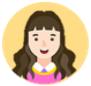
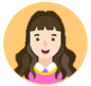
[FE] Design: TTS 선택 모달 수정
- tts 선택 모달에 이름 넣기
- tts 선택 모달 (처음 읽는 경우, 이어서 읽는 경우 boolean 으로 구분)
- 자녀 헤더 설정 모달 폰트 굵기 조정

diff --git a/frontend/ijoa-project/src/components/fairytales/TTSChoiceModal.tsx b/frontend/ijoa-project/src/components/fairytales/TTSChoiceModal.tsx
@@ -2,18 +2,20 @@ import React from "react";
 import Pororo from "/assets/fairytales/images/pororo.png";
 import Hachuping from "/assets/fairytales/images/hachuping.png";
 import Father from "/assets/fairytales/images/father.png";
-import Mother from "/assets/fairytales/images/mother.png";
 
 interface TTSChoiceModalProps {
   isOpen: boolean;
   onClose: () => void; // 모달을 닫는 함수 추가
+  hasRead: boolean; // 읽은 적 있는지 여부
 }
 
-const TTSChoiceModal: React.FC<TTSChoiceModalProps> = ({ isOpen, onClose }) => {
+const TTSChoiceModal: React.FC<TTSChoiceModalProps> = ({ isOpen, onClose, hasRead }) => {
   if (!isOpen) return null;
 
   // TTS 이미지 배열 예시 데이터
-  const images = [Pororo, Hachuping, Father, Mother];
+  const ttsImages = [Pororo, Father, Hachuping, Father];
+  // TTS 이름 배열 예시 데이터
+  const ttsNames = ["뽀로로", "아빠", "하츄핑", "엄마"];
 
   return (
     <div className="fixed inset-0 bg-black bg-opacity-60 flex justify-center items-center z-50">
@@ -23,40 +25,62 @@ const TTSChoiceModal: React.FC<TTSChoiceModalProps> = ({ isOpen, onClose }) => {
             <span className="blue-highlight">누구 목소리</span>로 책을 읽어줄까요?
           </div>
 
-          <div className="mt-8 mb-8">
+          <div className="mt-8 mb-8 text-lg">
             <div className="mb-8 flex flex-wrap justify-center gap-8">
-              {images.length > 0 && (
-                <img src={images[0]} alt="뽀로로" className="w-28" />
+              {ttsImages.length > 0 && (
+                <div>
+                  <img src={ttsImages[0]} alt="뽀로로" className="w-28" />
+                  <p className="mt-2">{ttsNames[0]}</p>
+                </div>
               )}
-              {images.length > 1 && (
-                <img src={images[1]} alt="하츄핑" className="w-28" />
+              {ttsImages.length > 1 && (
+                <div>
+                  <img src={ttsImages[1]} alt="하츄핑" className="w-28" />
+                  <p className="mt-2">{ttsNames[1]}</p>
+                </div>
               )}
             </div>
             <div className="flex flex-wrap justify-center gap-8">
-              {images.length > 2 && (
-                <img src={images[2]} alt="아빠" className="w-28" />
+              {ttsImages.length > 2 && (
+                <div>
+                  <img src={ttsImages[2]} alt="아빠" className="w-28" />
+                  <p className="mt-2">{ttsNames[2]}</p>
+                </div>
               )}
-              {images.length > 3 && (
-                <img src={images[3]} alt="엄마" className="w-28" />
+              {ttsImages.length > 3 && (
+                <div>
+                  <img src={ttsImages[3]} alt="아빠" className="w-28" />
+                  <p className="mt-2">{ttsNames[3]}</p>
+                </div>
               )}
             </div>
           </div>
 
-          {/* 취소/완료 버튼 */}
-          <div className="flex gap-4 justify-center items-center">
-            <button
-              className="w-36 py-2 text-[#67CCFF] text-lg font-bold bg-white rounded-3xl border-2 border-[#67CCFF]"
-              onClick={onClose} // 이어서 읽기 버튼 클릭 시 모달 닫기
-            >
-              이어서 읽기
-            </button>
-            <button
-              className="w-36 py-2 text-white text-lg font-bold bg-[#67CCFF] rounded-3xl border-2 border-[#67CCFF]"
-              onClick={onClose} // 처음부터 읽기 버튼 클릭 시 모달 닫기
-            >
-              처음부터 읽기
-            </button>
-          </div>
+          {hasRead ? (
+            <div className="flex gap-4 justify-center items-center">
+              <button
+                className="w-36 py-2 text-[#67CCFF] text-lg font-bold bg-white rounded-3xl border-2 border-[#67CCFF]"
+                onClick={onClose} // 이어서 읽기 버튼 클릭 시 모달 닫기
+              >
+                이어서 읽기
+              </button>
+              <button
+                className="w-36 py-2 text-white text-lg font-bold bg-[#67CCFF] rounded-3xl border-2 border-[#67CCFF]"
+                onClick={onClose} // 처음부터 읽기 버튼 클릭 시 모달 닫기
+              >
+                처음부터 읽기
+              </button>
+            </div>
+          ) : (
+            <div className="mt-8 text-lg">
+              <button
+                className="w-36 py-2 text-white text-lg font-bold bg-[#67CCFF] rounded-3xl border-2 border-[#67CCFF]"
+                onClick={onClose} // 동화책 읽기 버튼 클릭 시 모달 닫기
+              >
+                동화책 읽기
+              </button>
+            </div>
+          )}
         </div>
       </div>
     </div>

diff --git a/frontend/ijoa-project/src/components/fairytales/SettingToggle.tsx b/frontend/ijoa-project/src/components/fairytales/SettingToggle.tsx
@@ -11,7 +11,7 @@ const SettingToggles: React.FC<ToggleOptionsProps> = ({ options, onToggle }) => 
       <div className="space-y-3">
         {options.map((option, index) => (
           <label key={index} className="label cursor-pointer flex items-center gap-16">
-            <span className="text-lg flex-grow text-center">{option.label}</span>
+            <span className="text-lg flex-grow text-center font-bold">{option.label}</span>
             <input
               type="checkbox"
               className="toggle custom-toggle"

diff --git a/frontend/ijoa-project/src/pages/fairytales/FairytaleContentPage.tsx b/frontend/ijoa-project/src/pages/fairytales/FairytaleContentPage.tsx
@@ -105,7 +105,8 @@ const FairyTaleContentPage: React.FC = () => {
         </button>
       </div>
       {/* TTS 선택 모달 */}
-      <TTSChoiceModal isOpen={isTTSChoiceModalOpen} onClose={handleCloseTTSChoiceModal} />
+      {/* hasRead는 추후에 동적으로 수정 */}
+      <TTSChoiceModal isOpen={isTTSChoiceModalOpen} onClose={handleCloseTTSChoiceModal} hasRead={true} />
       {/* 레벨업 모달 */}
       <LevelUpModal isOpen={isLevelUpModalOpen} />
       {/* 독서완료 모달 */}
